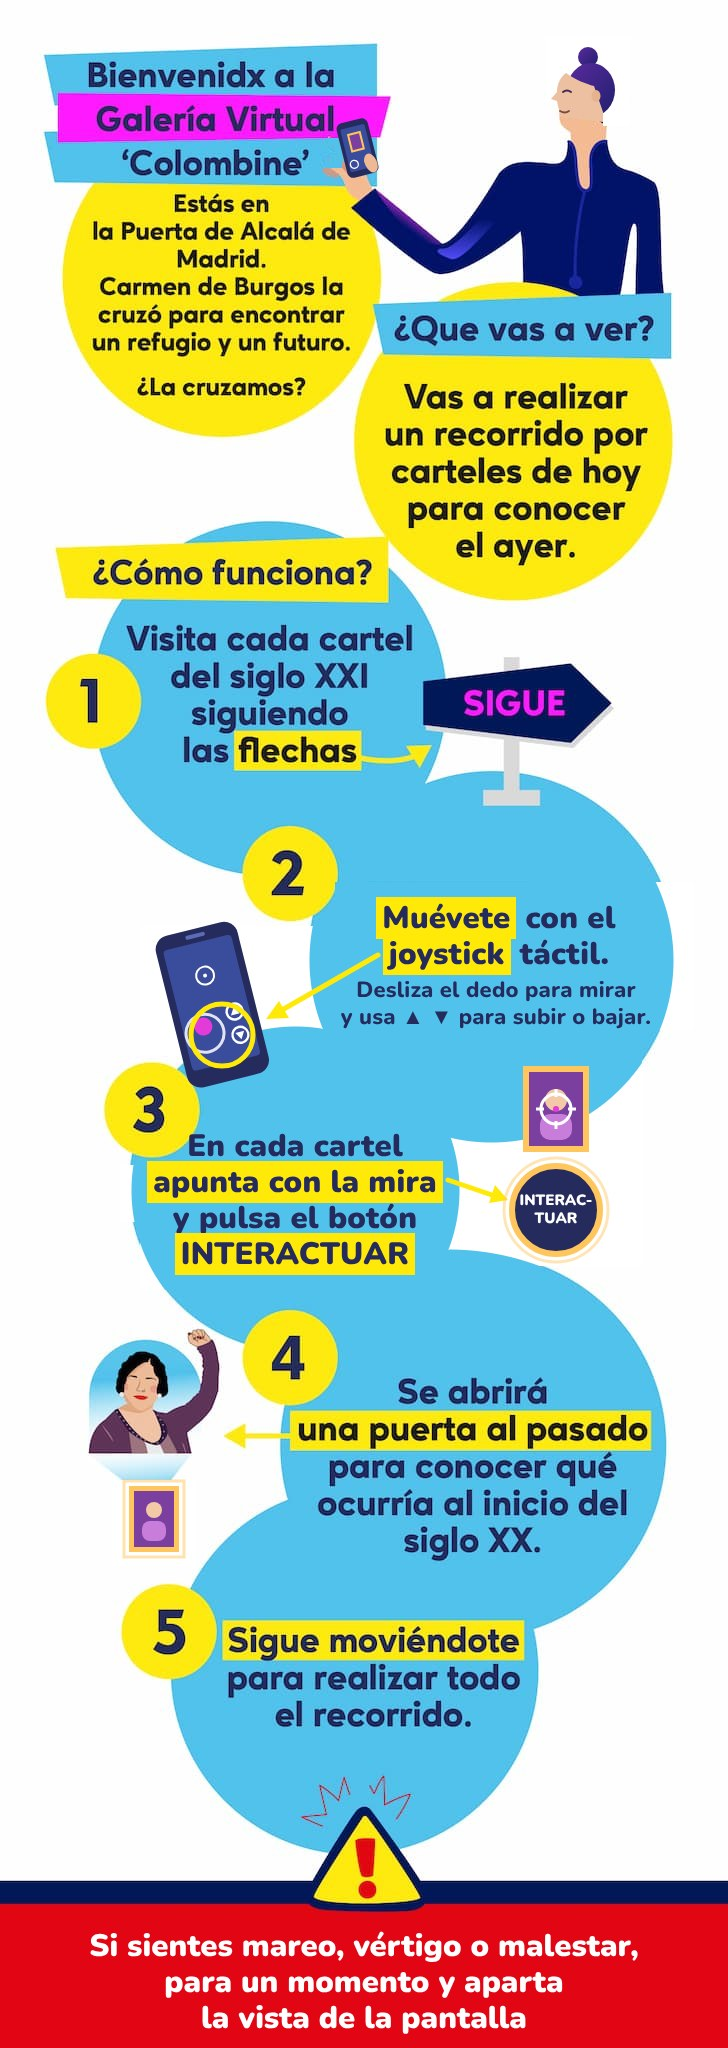
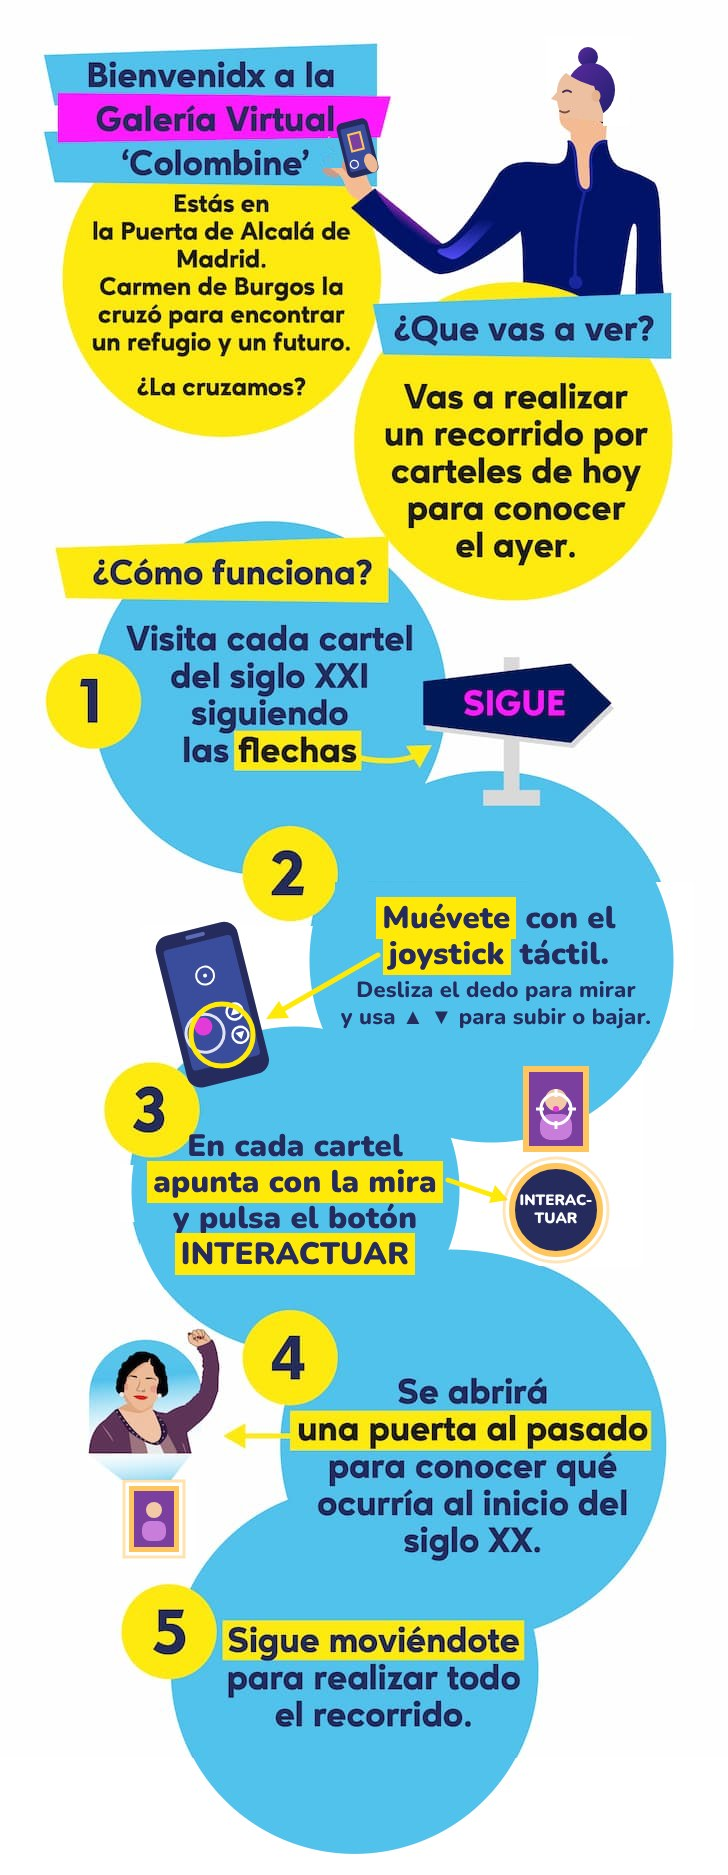
Cartel de inicio: quita el aviso de mareo y sube la cartela por encima del suelo
Claude-Session: https://claude.ai/code/session_01E1fecLxTaaqKpogHKnMryv

diff --git a/index.html b/index.html
@@ -364,7 +364,7 @@
     <a-cylinder position="0 0.60 -6" radius="0.5" height="1.50" material="color: #83632b" scale="-0.070 0.740 0.130"></a-cylinder>
     <a-box id="cartel00" class="interactivo" data-nombre="Cartel de inicio" position="0 1.60 -6" width="1.5" height="1" depth="0.08"
       src="Carteles_Comprimidos/FP-LOGO-estable.jpg"
-      cartel-interactivo="cartelas: cartela00; ancho: 1.5; alto: 1; lado: -1; dy: 0.15"
+      cartel-interactivo="cartelas: cartela00; ancho: 1.5; alto: 1; lado: -1; dy: 0.57"
       event-set__enter="_event: mouseenter; _target: #textoInicio; visible: true"
       event-set__leave="_event: mouseleave; _target: #textoInicio; visible: false"></a-box>
     <a-text id="textoInicio"
@@ -433,7 +433,7 @@
 
     <!-- ══ CARTELAS (ocultas; se colocan junto a su cartel al activarlo) ══ -->
     <!-- Cartela del cartel de inicio: cómo hacer el recorrido (versión app) -->
-    <a-image id="cartela00"  src="Carteles_Comprimidos/recorrido_00-INICIO-APP.jpg" width="1.14" height="3.2" visible="false" animation__pop="property: scale; from: 0.05 0.05 0.05; to: 1 1 1; dur: 380; easing: easeOutBack; startEvents: aparecer"></a-image>
+    <a-image id="cartela00"  src="Carteles_Comprimidos/recorrido_00-INICIO-APP.jpg" width="1.14" height="2.94" visible="false" animation__pop="property: scale; from: 0.05 0.05 0.05; to: 1 1 1; dur: 380; easing: easeOutBack; startEvents: aparecer"></a-image>
     <a-image id="cartela01"  src="Carteles_Comprimidos/01CARTELA.jpg"   width="2.14" height="3" visible="false" animation__pop="property: scale; from: 0.05 0.05 0.05; to: 1 1 1; dur: 380; easing: easeOutBack; startEvents: aparecer"></a-image>
     <a-image id="cartela02"  src="Carteles_Comprimidos/02CARTELA.jpg"   width="2.14" height="3" visible="false" animation__pop="property: scale; from: 0.05 0.05 0.05; to: 1 1 1; dur: 380; easing: easeOutBack; startEvents: aparecer"></a-image>
     <a-image id="cartela03"  src="Carteles_Comprimidos/03CARTELA.jpg"   width="2.14" height="3" visible="false" animation__pop="property: scale; from: 0.05 0.05 0.05; to: 1 1 1; dur: 380; easing: easeOutBack; startEvents: aparecer"></a-image>
